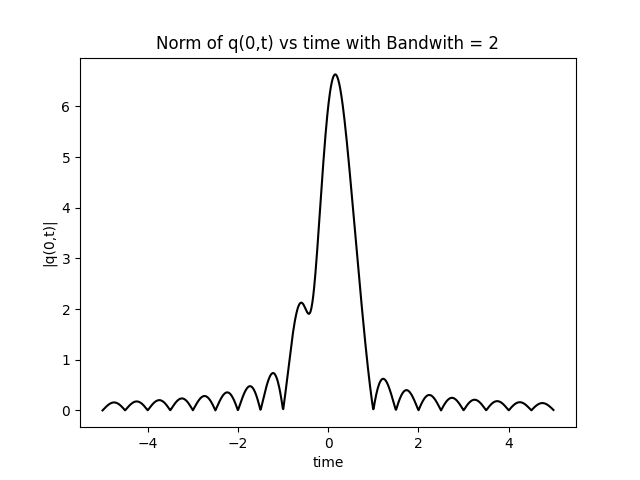
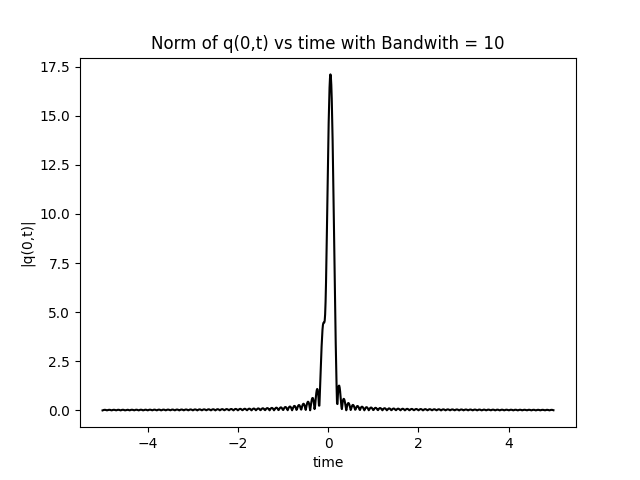
till demodulation

diff --git a/channel.py b/channel.py
@@ -52,6 +52,8 @@ class Channel:
         self.sigma2 = self.data_generator.sigma2
 
         self.t = self.data_generator.t
+        
+        self.fft_frequencies = np.fft.fftfreq(n=self.N,d=self.data_generator.dt)
     
     def setter_function(self,q0t):
         
@@ -59,27 +61,16 @@ class Channel:
 
     def channel_transfer_function(self, z):
 
-        hzf = []
+        self.hzf = []
 
         for i in range(self.N):
 
-            hzf.append(np.exp(complex(0, np.square(2*pi*self.f[i])*z)))
+            self.hzf.append( np.exp( complex( 0, np.square( 2*pi*self.f[i] )*z ) ) )
 
-        hzf = np.asarray(hzf)
+        self.hzf = np.asarray(self.hzf)
 
-        return hzf
+        return self.hzf
     
-    def channel_inverse_transfer_function(self,z):
-        
-        hzf = self.channel_transfer_function(z)
-        
-        hzf_inverse = []
-        
-        for i in range(self.N):
-            
-            hzf_inverse.append(complex(0,-1) * np.ln(hzf[i]) / (2*pi*self.f[i])**2 )
-            
-        return hzf_inverse
 
     def channel(self, z):
 
@@ -88,10 +79,10 @@ class Channel:
 
         self.f = self.data_generator.f
 
-        self.q0f = self.data_generator.q0t_FFT
+        self.q0f = np.fft.fft(self.q0t)
 
         # Channel Transfer function
-        self.qzf = self.q0f * self.channel_transfer_function(z)
+        self.qzf = np.multiply(self.q0f, self.channel_transfer_function(z))
 
         # noise is an (N,) numpy array of complex valued Gaussian(0,sigma2) white noise
         # real part independent of imaginary part
@@ -100,9 +91,9 @@ class Channel:
                                     np.random.normal(loc=0, scale=self.a / 2, size=1))
                                     for _ in range(self.N)])
 
-        self.qzf += scipy.fft.fft(noise)
+        self.qzf += np.fft.fft(noise)
         
-        self.qzt = scipy.fft.ifft(self.qzf)
+        self.qzt = np.fft.ifft(self.qzf)
 
     def equilize(self,z):
         
@@ -110,6 +101,15 @@ class Channel:
         
         self.f = self.data_generator.f
         
-        self.qzfe = np.multiply(self.channel_inverse_transfer_function(z),self.qzf)
+        # self.qzfe = np.multiply(self.channel_inverse_transfer_function(z),self.qzf)
+        
+        self.qzfe = np.multiply(np.reciprocal(self.hzf),self.qzf)
         
         self.qzte = scipy.fft.ifft(self.qzfe)
+        
+    
+    def compare(self):
+        
+        self.difference = np.mean(np.abs(self.qzte-self.q0t))
+        
+        return self.difference < 1e-10

diff --git a/main_input_output_channel_equilize.py b/main_input_output_channel_equilize.py
@@ -3,16 +3,19 @@ import matplotlib.pyplot as plt
 import numpy as np
 import scipy
 
-optic_fiber_channel = Channel(Bandwith=0,T=10,N=2**7)
+optic_fiber_channel = Channel(Bandwith=0,T=50,N=2**10)
 
 A = 1
 
 t = optic_fiber_channel.t
-f = optic_fiber_channel.data_generator.f
+dt = optic_fiber_channel.data_generator.dt
 
-q0t = A * np.sinc(t)
+f = optic_fiber_channel.data_generator.fft_frequencies
 
-q0f = scipy.fftpack.fft.fft(q0t)
+
+q0t = A * np.exp(-t**2)
+
+q0f = np.fft.fft(q0t)
 
 
 fig, ax = plt.subplots(nrows=1,ncols=2,figsize=(20,10))
@@ -22,17 +25,59 @@ ax[0].plot(t,q0t,label='q(t,0)',color='red',lw=3)
 ax[0].set_xlabel('time')
 ax[0].set_ylabel('q(t,0)')
 
-ax[0].spines['left'].set_position('center')
-ax[0].spines['right'].set_color('none')
-ax[0].spines['top'].set_color('none')
+ax[0].legend()
 
 ax[1].set_title('input frequency domain')
-ax[1].plot(f,q0f.real,label='q(f,0)',color='red',lw=3)
+ax[1].plot(f,np.abs(q0f.real),label='q(f,0)',color='red',lw=3)
 ax[1].set_xlabel('frequency')
 ax[1].set_ylabel('|q(f,0)|')
-ax[1].spines['left'].set_position('center')
-ax[1].spines['right'].set_color('none')
-ax[1].spines['top'].set_color('none')
 
+ax[1].legend()
+plt.savefig('plots/input_on_t_input_on_f.png')
+
+plt.clf()
+
+optic_fiber_channel.setter_function(q0t)
+
+L = 1e3
+
+optic_fiber_channel.channel(z=L)
+
+qlf = optic_fiber_channel.qzf
+
+qlt = optic_fiber_channel.qzt
+
+
+fig, ax = plt.subplots(nrows=1,ncols=2,figsize=(20,10))
+
+ax[0].set_title('input time domain')
+ax[0].plot(t,q0t,label='q(t,0)',color='red',lw=3)
+ax[0].plot(t,qlt,label='q(t,L)',color='blue',lw=3)
+ax[0].set_xlabel('time')
+
+ax[0].legend()
+
+ax[1].set_title('input frequency domain')
+ax[1].plot(f,np.abs(q0f.real),label='q(f,0)',color='red',lw=3)
+ax[1].plot(f,np.abs(qlf.real),label='q(f,L)',color='blue',lw=3)
+ax[1].set_xlabel('frequency')
+
+ax[1].legend()
+plt.savefig('plots/input_output_in_t_input_output_in_f.png')
+plt.clf()
+
+
+optic_fiber_channel.equilize(z=L)
+qlfe = optic_fiber_channel.qzfe
+qlte = optic_fiber_channel.qzte
+
+
+plt.figure(figsize=(20,10))
+plt.plot(t,q0t,label='input',color='red',lw=3)
+plt.plot(t,qlte,label='output equilizer',color='blue',lw=3)
 plt.legend()
-plt.savefig('input_on_t_input_on_f.png')
+plt.savefig('plots/input_in_t_vs_output_equilizer_in_t.png')
+
+plt.clf()
+
+print(optic_fiber_channel.compare())

diff --git a/data.py b/data.py
@@ -44,6 +44,8 @@ class DataGenerator:
 
         self.f = np.arange(start=-self.F/2,stop=self.F/2,step=self.df)
         
+        self.fft_frequencies = np.fft.fftfreq(n=self.N,d=self.dt)
+        
         self.number_bits = self.number_symbols * int(log2(self.M)) # nb in guide
 
         # Constellation
@@ -133,7 +135,9 @@ class DataGenerator:
         plt.savefig('./plots/norm_q0t.png')
         plt.clf() 
 
-        plt.plot(self.f,self.q0t_FFT,color='red')
+        self.fft_frequencies = np.fft.fftfreq(n=self.N,d=self.dt)
+        
+        plt.plot(self.fft_frequencies,np.abs(self.q0t_FFT),color='red')
         plt.xlabel(r'frequency')
         plt.ylabel(r'FFT(q(0,t))')
         plt.title(r'q(0,t)'+'in frequency domain with Bandwith = '+str(self.Bandwith))

diff --git a/main_plot_q0t.py b/main_plot_q0t.py
@@ -5,19 +5,19 @@ from channel import Channel
 import matplotlib.pyplot as plt
 import scipy
 
-dg = DataGenerator(Bandwith=2,T=10,N=2**10,number_symbols=3)
+dg = DataGenerator(Bandwith=10,T=10,N=2**10,number_symbols=3)
 
 dg.source()
 dg.bit_to_symb()
 dg.mod()
-# dg.plot_q0t()
+dg.plot_q0t()
 
 
-transmitter = Channel()
+# transmitter = Channel()
 
-z = 1
-transmitter.channel(z=z)
+# z = 1
+# transmitter.channel(z=z)
 
-qzf = transmitter.qzf
+# qzf = transmitter.qzf
 
-qzt = transmitter.qzt
+# qzt = transmitter.qzt
